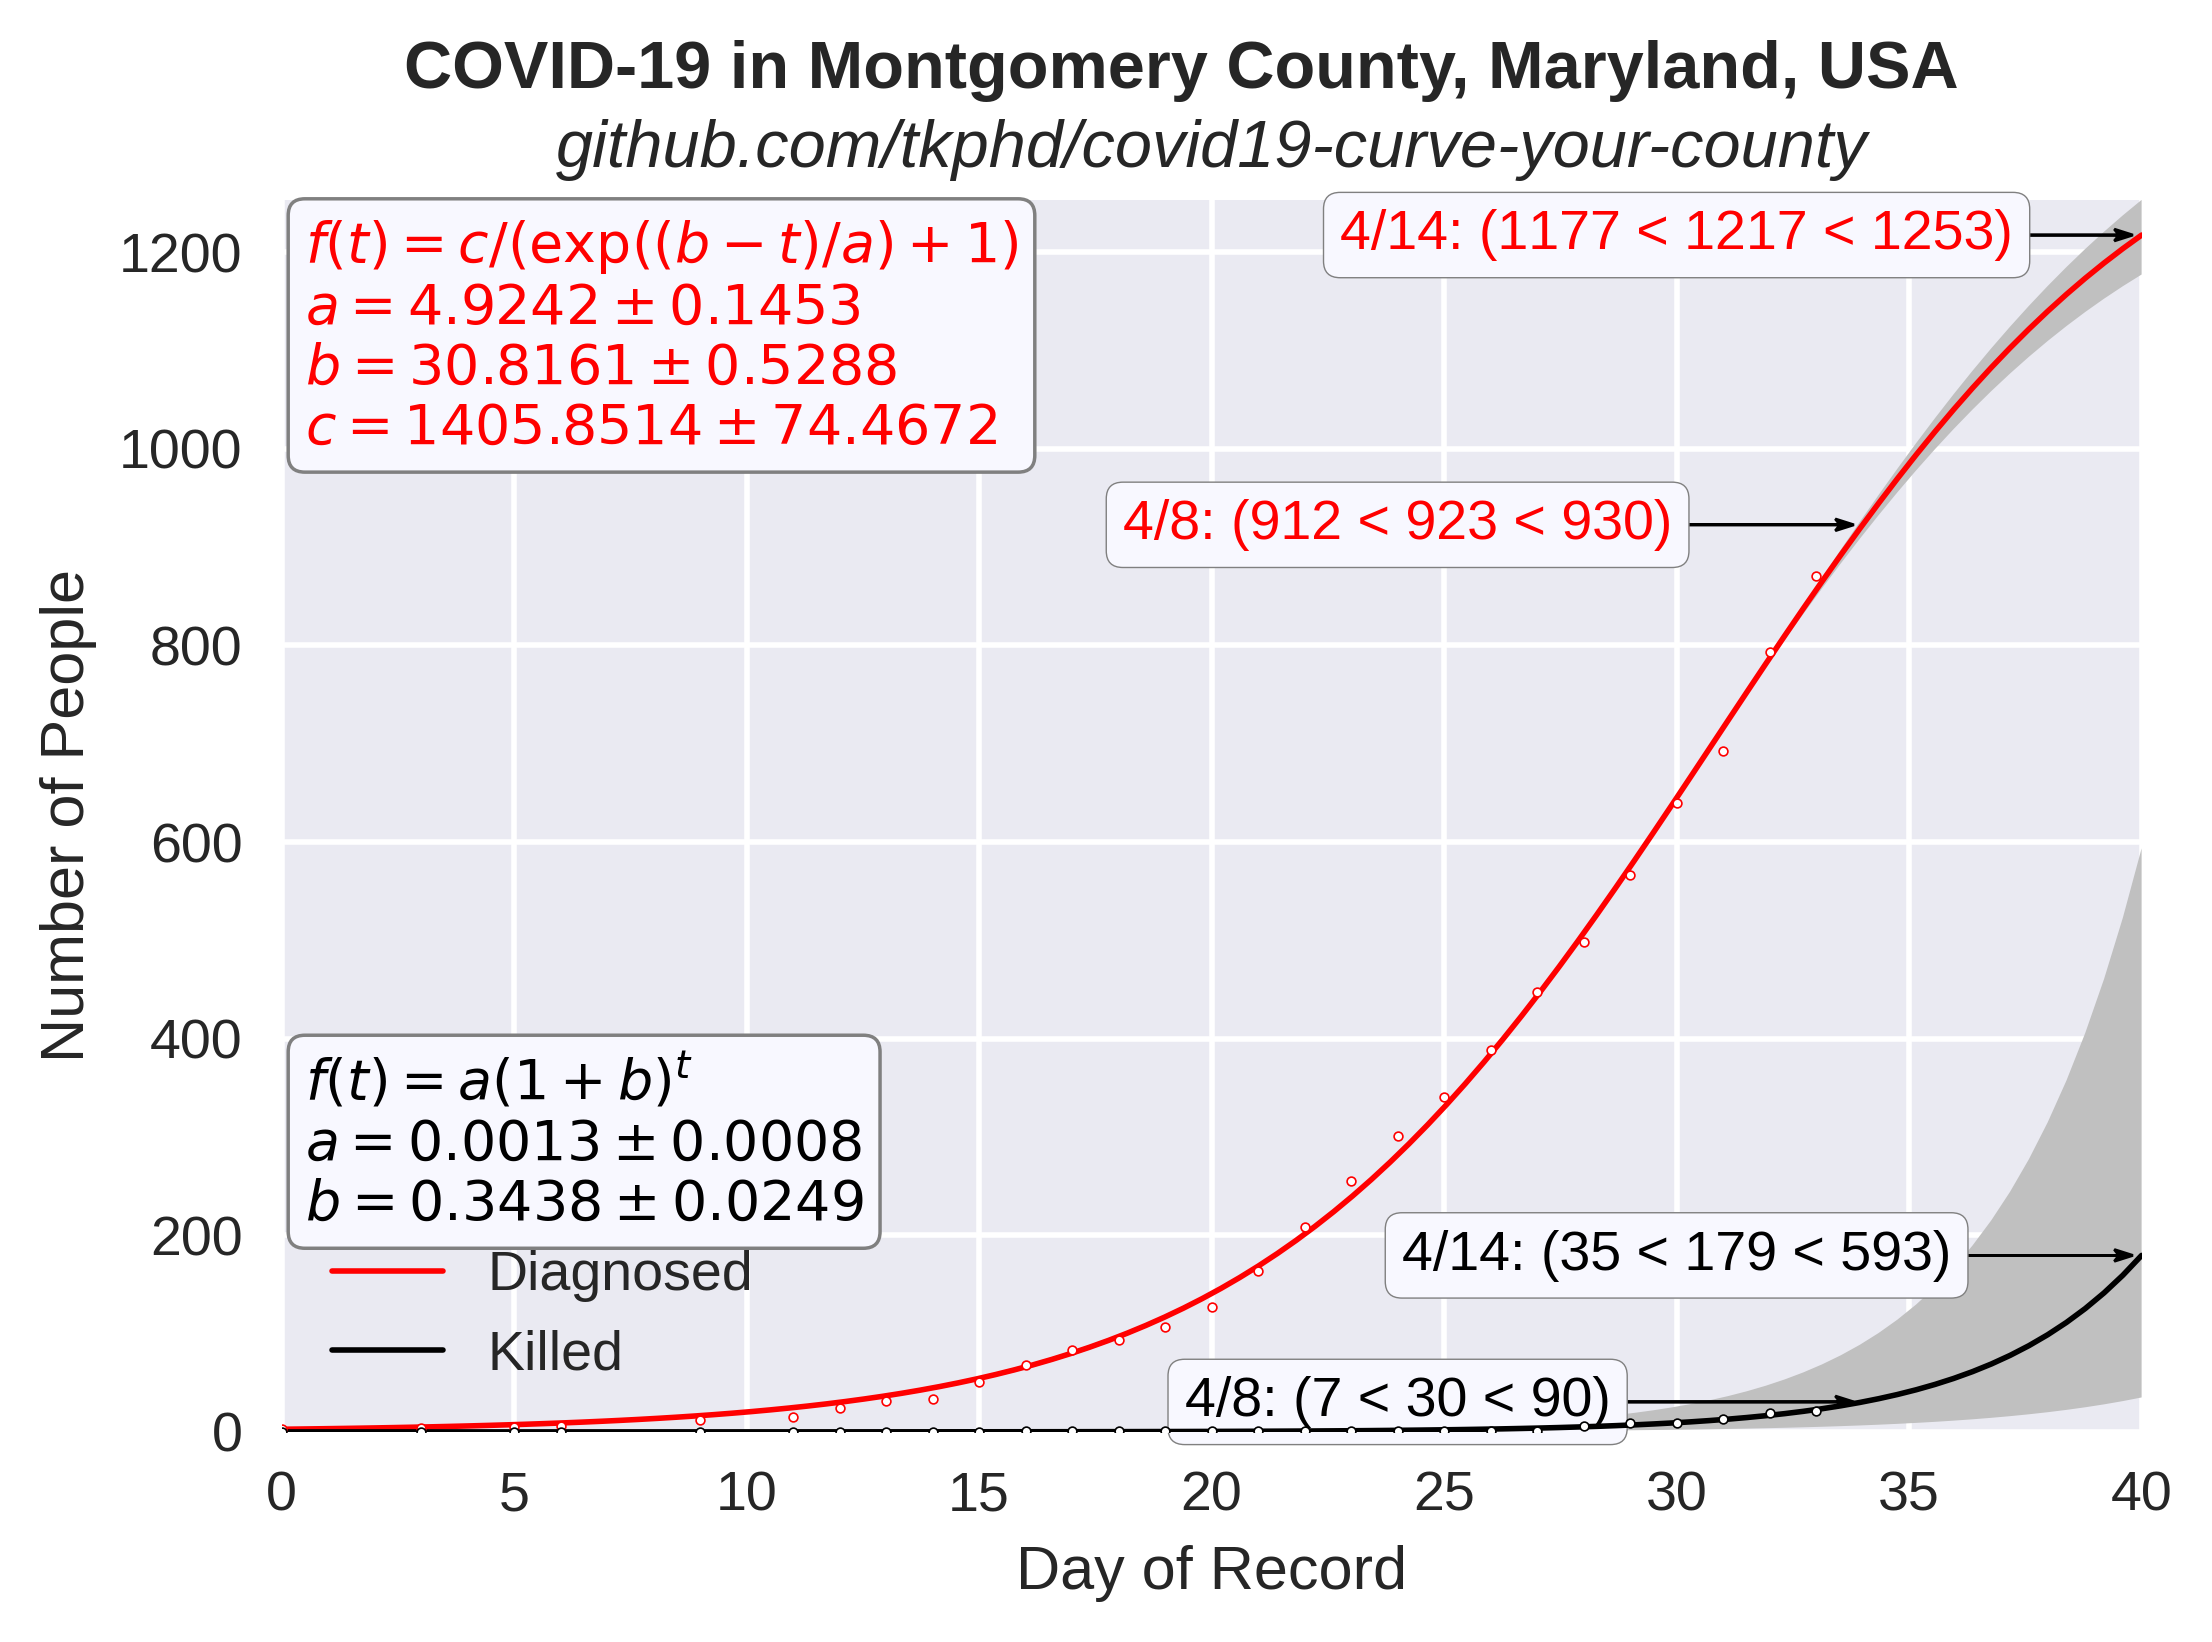
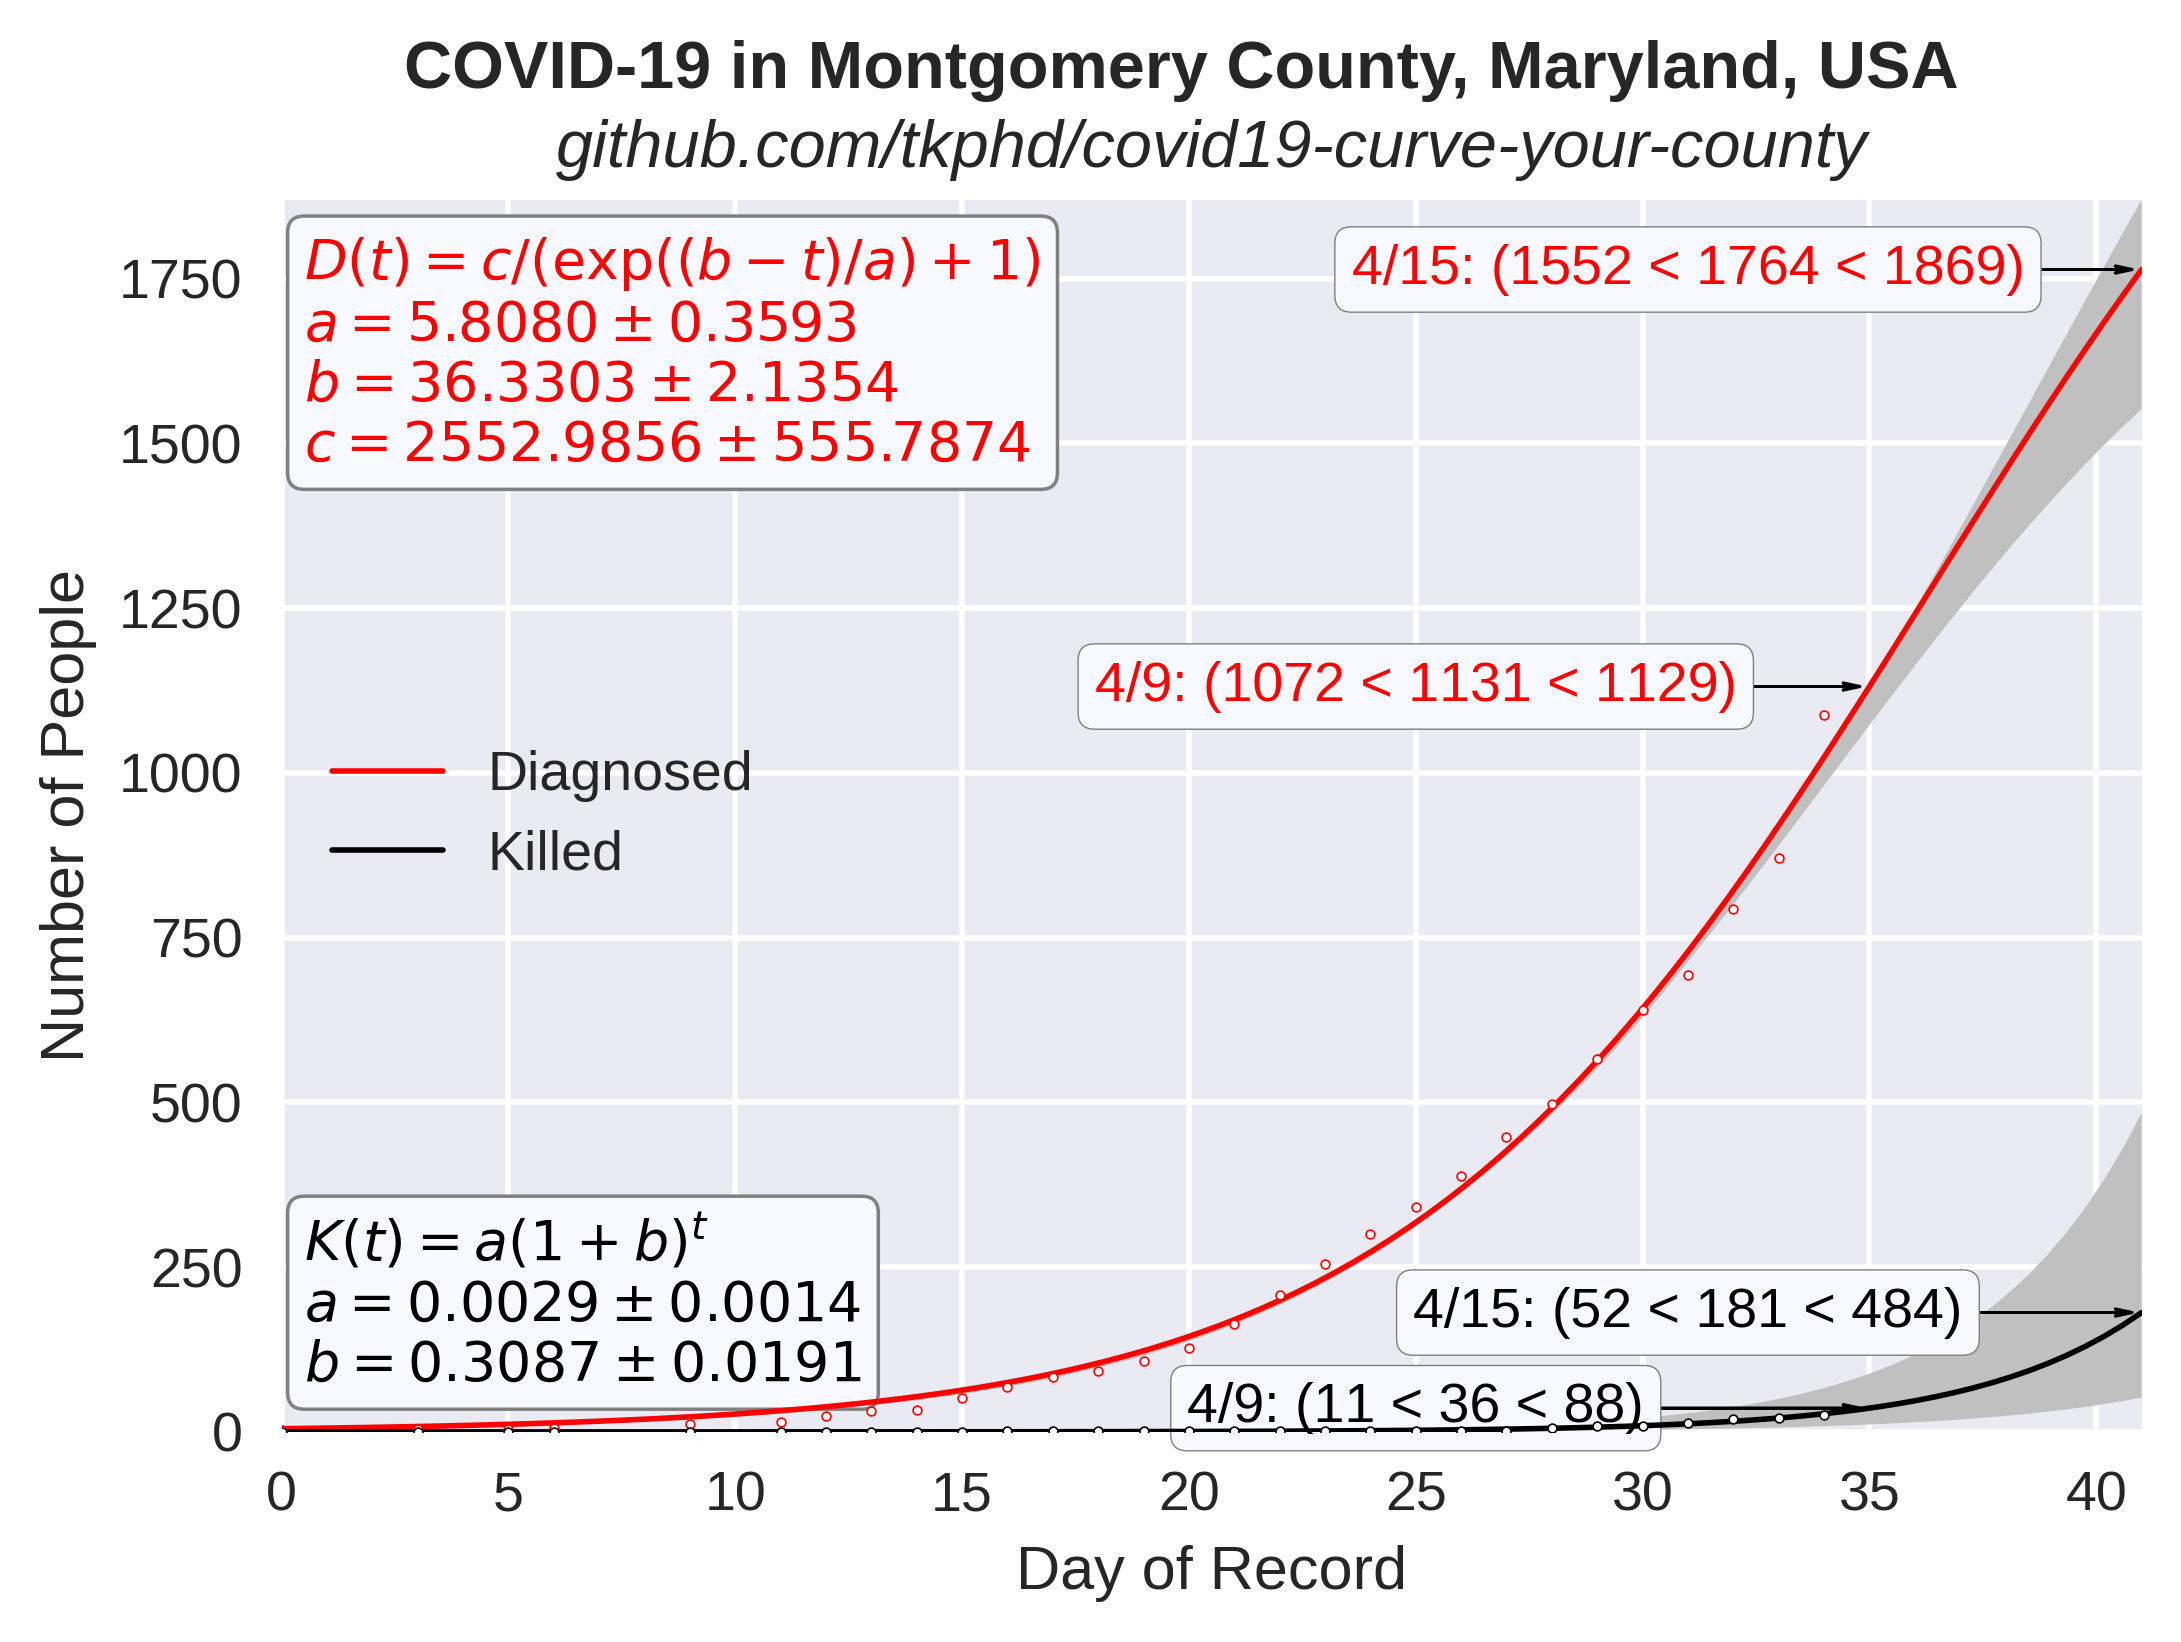
2020-04-08 update

diff --git a/exponential.py b/exponential.py
@@ -9,6 +9,9 @@ columns = ["diagnosed", "killed"]
 models = {"diagnosed": "log",
           "killed": "exp"}
 
+equations = {"diagnosed": "$D(t) = c / (\exp((b - t)/a) + 1)$\n$a = {0:.4f} \pm {3:.4f}$\n$b = {1:.4f} \pm {4:.4f}$\n$c = {2:.4f} \pm {5:.4f}$",
+             "killed": "$K(t) = a (1 + b)^t$\n$a = {0:.4f} \pm {2:.4f}$\n$b = {1:.4f} \pm {3:.4f}$"}
+
 # Set colors for the plot
 
 colors = {"diagnosed": "red",
@@ -107,7 +110,7 @@ for key in columns:
     non-trivial means for each datapoint would produce much more realistic uncertainty bands in the
     final plots.
     """
-    p, pcov = curve_fit(f, t, y, sigma=None, method="lm", jac=df)
+    p, pcov = curve_fit(f, t, y, sigma=None, method="lm", jac=df, maxfev=1000)
     coef = describe(pcov)
     perr = np.sqrt(np.diag(pcov))
 
@@ -155,22 +158,13 @@ for key in columns:
     lower = f(t_hat, *lwr_p)
 
     # Overlay model on plot
-    if model == "exp":
-        plt.text(0.5, 0.5 * (upper[1] + y_hat[1]),
-                 "$f(t) = a (1 + b)^t$\n$a = {0:.4f} \pm {2:.4f}$\n$b = {1:.4f} \pm {3:.4f}$".format(*p, *perr),
-                 color=colors[key],
-                 va="top",
-                 zorder=4,
-                 bbox=dict(boxstyle="round", ec="gray", fc="ghostwhite", linewidth=2.5*dx)
-        )
-    elif model == "log":
-        plt.text(0.5, 0.5 * (upper[1] + y_hat[1]),
-                 "$f(t) = c / (\exp((b - t)/a) + 1)$\n$a = {0:.4f} \pm {3:.4f}$\n$b = {1:.4f} \pm {4:.4f}$\n$c = {2:.4f} \pm {5:.4f}$".format(*p, *perr),
-                 color=colors[key],
-                 va="top",
-                 zorder=4,
-                 bbox=dict(boxstyle="round", ec="gray", fc="ghostwhite", linewidth=2.5*dx)
-        )
+    plt.text(0.5, 0.5 * (upper[1] + y_hat[1]),
+             equations[key].format(*p, *perr),
+             color=colors[key],
+             va="top",
+             zorder=4,
+             bbox=dict(boxstyle="round", ec="gray", fc="ghostwhite", linewidth=2.5*dx)
+    )
 
     # Overlay projections on plot
     plt.text(
@@ -243,7 +237,7 @@ plt.ylim([0, y_max])
 
 # Save figure
 
-plt.legend(loc="lower left")
+plt.legend(loc="center left")
 plt.savefig(imgname, dpi=400, bbox_inches="tight")
 plt.close()
 
@@ -272,4 +266,3 @@ plt.legend(loc="best")
 plt.xlim([0, len(y)])
 plt.savefig("residuals.png", dpi=400, bbox_inches="tight")
 plt.close()
-
